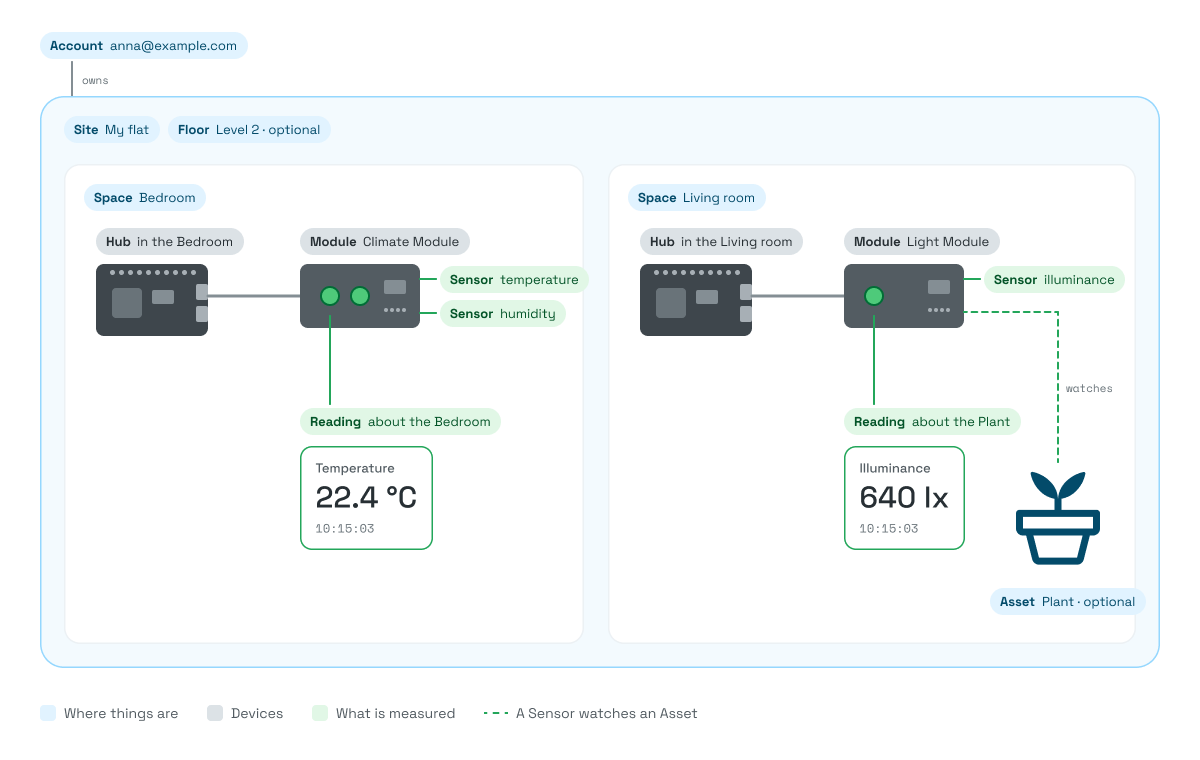
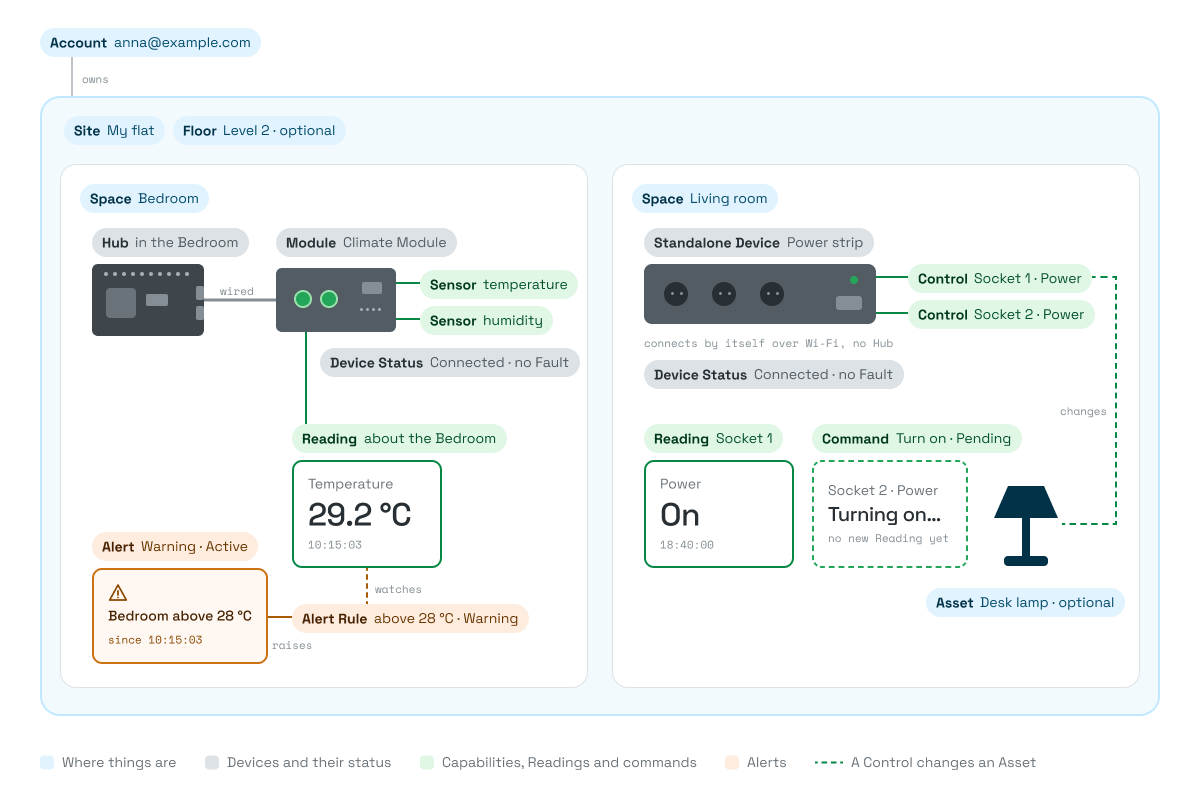
DeviceFaultStatus componenet update

diff --git a/kit/packages/ui/src/components/status/DeviceFaultStatus/DeviceFaultStatus.module.css b/kit/packages/ui/src/components/status/DeviceFaultStatus/DeviceFaultStatus.module.css
@@ -1,22 +1,49 @@
 @layer detriz {
-  /* Icon then message in one row. The icon stays beside the first line when the message wraps. */
+  /* A compact version of AlertBanner's critical level: a very light danger fill, a light danger
+     border, an icon tile and the message. It fills the width its parent gives it.
+     4px top, bottom and left, 8px right; the padding subtracts the border, so the size matches
+     Figma (inside stroke). The icon stays beside the first line when the message wraps. */
   .root {
-    display: inline-flex;
+    display: flex;
     align-items: flex-start;
-    gap: var(--shk-space-1);
-    padding: var(--shk-space-0);
-    color: var(--shk-status-danger-fg);
+    gap: var(--shk-space-2);
+    box-sizing: border-box;
+    inline-size: 100%;
+    padding: calc(var(--shk-space-1) - var(--shk-border-width-thin))
+      calc(var(--shk-space-2) - var(--shk-border-width-thin))
+      calc(var(--shk-space-1) - var(--shk-border-width-thin))
+      calc(var(--shk-space-1) - var(--shk-border-width-thin));
+    border: var(--shk-border-width-thin) solid
+      var(--shk-status-danger-border-subtle);
+    border-radius: var(--shk-radius-8);
+    background: var(--shk-status-danger-bg-subtle);
+    color: var(--shk-color-text-primary);
+  }
+
+  /* The icon tile: like AlertBanner's, but 20px with a 16px icon. White icon on the solid danger colour. */
+  .icon {
+    display: inline-flex;
+    flex-shrink: 0;
+    align-items: center;
+    justify-content: center;
+    inline-size: var(--shk-size-5);
+    block-size: var(--shk-size-5);
+    border-radius: var(--shk-radius-4);
+    background: var(--shk-status-danger-solid);
+    color: var(--shk-color-text-inverse);
   }
 
   /* Figma's 12px / regular / 18px text is the caption text style.
      The message wraps instead of truncating: a cut-off Fault message could hide what is wrong. */
   .label {
+    flex: 1;
     min-inline-size: 0;
     font-family: var(--shk-typography-caption-font-family);
     font-size: var(--shk-typography-caption-font-size);
     font-weight: var(--shk-typography-caption-font-weight);
     line-height: var(--shk-typography-caption-line-height);
     letter-spacing: var(--shk-typography-caption-letter-spacing);
+    overflow-wrap: break-word;
   }
 
   /* On the page for screen readers only, never seen. */

diff --git a/kit/packages/ui/src/components/readings/DeviceCard/DeviceCard.tsx b/kit/packages/ui/src/components/readings/DeviceCard/DeviceCard.tsx
@@ -14,6 +14,17 @@ export function DeviceCard({
   connectionStatus,
   faults = [],
 }: DeviceCardProps) {
+  // A Fault about a Sensor on this card goes inside that Sensor's card. The rest (no Metric,
+  // or a Metric the card doesn't show) are about the whole Device and go above the Sensors.
+  const shownMetrics = new Set(sensors.map((sensor) => sensor.metric));
+  const deviceFaults = faults.filter(
+    (fault) => !fault.metric || !shownMetrics.has(fault.metric),
+  );
+  const faultCodesFor = (metric: string) =>
+    faults
+      .filter((fault) => fault.metric === metric)
+      .map((fault) => fault.faultCode);
+
   return (
     // Card draws the surface and the header strip (name + Connection Status) and names the group.
     <Card
@@ -22,8 +33,8 @@ export function DeviceCard({
     >
       {/* A container, so the Sensors can switch to a row when the body is wide enough. */}
       <div className={styles.content}>
-        {/* One DeviceFaultStatus per Fault. Each Fault Code appears once, so it works as the key. */}
-        {faults.map((fault) => (
+        {/* One DeviceFaultStatus per Device-wide Fault. Each Fault Code appears once, so it works as the key. */}
+        {deviceFaults.map((fault) => (
           <DeviceFaultStatus key={fault.faultCode} {...fault} />
         ))}
         {/* role="list": Safari stops treating a list as a list once its bullets are removed. */}
@@ -41,6 +52,7 @@ export function DeviceCard({
                     {...sensor}
                     isDisconnected={connectionStatus === "disconnected"}
                     size="md"
+                    faults={faultCodesFor(sensor.metric)}
                   />
                 ) : (
                   <SensorReading
@@ -50,6 +62,7 @@ export function DeviceCard({
                     fractionDigits={sensor.fractionDigits}
                     isDisconnected={connectionStatus === "disconnected"}
                     size="md"
+                    faults={faultCodesFor(sensor.metric)}
                   />
                 )}
               </li>

diff --git a/kit/packages/ui/src/components/readings/DeviceCard/DeviceCard.stories.tsx b/kit/packages/ui/src/components/readings/DeviceCard/DeviceCard.stories.tsx
@@ -80,7 +80,8 @@ export const Disconnected: Story = {
   args: { connectionStatus: "disconnected" },
 };
 
-// A Fault sits on top of any state: the value still shows.
+// A Fault sits on top of any state: the value still shows. A Fault about a Sensor on the card
+// shows inside that Sensor's card, with the short message.
 export const Fault: Story = {
   args: {
     name: "Air Quality Module",
@@ -89,7 +90,21 @@ export const Fault: Story = {
   },
 };
 
-// A Module can report several Faults at once: one DeviceFaultStatus per Fault.
+// A Fault about one of two Sensors: only that Sensor's card shows it. Both cards keep the same height.
+export const FaultOnOneSensor: Story = {
+  args: {
+    faults: [{ faultCode: "sensor_failure", metric: "humidity" }],
+  },
+};
+
+// A Fault with no Metric is about the whole Device: it shows above the Sensors, full width.
+export const DeviceFault: Story = {
+  args: {
+    faults: [{ faultCode: "calibration_required" }],
+  },
+};
+
+// A Module can report several Faults at once: one DeviceFaultStatus per Fault, each in its Sensor's card.
 export const SeveralFaults: Story = {
   args: {
     name: "Air Quality Module",

diff --git a/kit/packages/ui/src/components/status/DeviceFaultStatus/DeviceFaultStatus.tsx b/kit/packages/ui/src/components/status/DeviceFaultStatus/DeviceFaultStatus.tsx
@@ -5,7 +5,7 @@ import { METRIC_NAMES } from "../../../utils/metricNames";
 import styles from "./DeviceFaultStatus.module.css";
 import type { DeviceFaultStatusProps } from "./DeviceFaultStatus.types";
 
-/** Shows a Device's Fault: a danger icon and a short message. Takes props only, never fetches data. */
+/** Shows a Device's Fault: a danger icon tile and a short message, full width. Takes props only, never fetches data. */
 export function DeviceFaultStatus({
   faultCode,
   metric,
@@ -17,7 +17,9 @@ export function DeviceFaultStatus({
   return (
     <span role="status" data-fault-code={faultCode} className={styles.root}>
       {/* The icon is decorative: the message next to it says the same thing. */}
-      <Icon name={READING_STATUS_ICONS.fault} size="xs" />
+      <span className={styles.icon}>
+        <Icon name={READING_STATUS_ICONS.fault} size="xs" />
+      </span>
       {/* When there is a spoken name, screen readers skip the message and read that instead ("carbon dioxide sensor failure"). */}
       <span
         aria-hidden={names?.spokenName ? "true" : undefined}

diff --git a/kit/packages/ui/src/components/readings/SensorReading/SensorReading.tsx b/kit/packages/ui/src/components/readings/SensorReading/SensorReading.tsx
@@ -1,5 +1,6 @@
 import { useId } from "react";
 import { SensorLabel } from "../../context/SensorLabel";
+import { DeviceFaultStatus } from "../../status/DeviceFaultStatus";
 import { ReadingValue } from "../ReadingValue";
 import { UnitLabel } from "../UnitLabel";
 import styles from "./SensorReading.module.css";
@@ -13,6 +14,7 @@ export function SensorReading({
   isDisconnected = false,
   fractionDigits = 1,
   size = "lg",
+  faults = [],
 }: SensorReadingProps) {
   const labelId = useId();
   // Same rule as ReadingValue: no number is shown while loading or Disconnected.
@@ -44,6 +46,14 @@ export function SensorReading({
           <UnitLabel unit={unit} size={size} />
         </span>
       </span>
+      {/* The Faults about this Sensor, under its value. No Metric: the label above already names it. */}
+      {faults.length > 0 && (
+        <span className={styles.faults}>
+          {faults.map((faultCode) => (
+            <DeviceFaultStatus key={faultCode} faultCode={faultCode} />
+          ))}
+        </span>
+      )}
     </div>
   );
 }

diff --git a/kit/packages/ui/src/components/readings/SensorState/SensorState.tsx b/kit/packages/ui/src/components/readings/SensorState/SensorState.tsx
@@ -1,6 +1,7 @@
 import { useId } from "react";
 import { AssetLabel } from "../../context/AssetLabel";
 import { SensorLabel } from "../../context/SensorLabel";
+import { DeviceFaultStatus } from "../../status/DeviceFaultStatus";
 import { StateValue } from "../StateValue";
 import styles from "./SensorState.module.css";
 import type { SensorStateProps } from "./SensorState.types";
@@ -11,6 +12,7 @@ export function SensorState({
   isDisconnected = false,
   alertLevel,
   size = "lg",
+  faults = [],
   ...reading
 }: SensorStateProps) {
   const labelId = useId();
@@ -38,6 +40,14 @@ export function SensorState({
           size={size}
         />
       </span>
+      {/* The Faults about this Sensor, under its State. No Metric: the label above already names it. */}
+      {faults.length > 0 && (
+        <span className={styles.faults}>
+          {faults.map((faultCode) => (
+            <DeviceFaultStatus key={faultCode} faultCode={faultCode} />
+          ))}
+        </span>
+      )}
     </div>
   );
 }

diff --git a/kit/packages/ui/src/components/readings/SensorState/SensorState.types.ts b/kit/packages/ui/src/components/readings/SensorState/SensorState.types.ts
@@ -1,6 +1,7 @@
 import type { AssetType } from "../../../types/assetType";
 import type { AlertLevel } from "../../../types/alert";
 import type { StateValueReading } from "../StateValue";
+import type { FaultCode } from "../../status/DeviceFaultStatus";
 
 /** How big the State is drawn. The same two sizes as SensorReading. */
 export type SensorStateSize = "lg" | "md";
@@ -23,4 +24,6 @@ export type SensorStateProps = StateValueReading & {
   alertLevel?: AlertLevel;
   /** How big the State is drawn. Defaults to `lg`. */
   size?: SensorStateSize;
+  /** The Fault Codes of the Device's Faults about this Sensor. Each shows under the State, with the short message ("Sensor failure"), because the card already names the Sensor. Leave it out when there are none. */
+  faults?: FaultCode[];
 };

diff --git a/kit/packages/ui/src/components/readings/SensorReading/SensorReading.types.ts b/kit/packages/ui/src/components/readings/SensorReading/SensorReading.types.ts
@@ -1,4 +1,5 @@
 import type { MeasuredMetric } from "../../../types/metric";
+import type { FaultCode } from "../../status/DeviceFaultStatus";
 import type { UnitLabelUnit } from "../UnitLabel";
 
 /** How big the value and the Unit are drawn. Passed to ReadingValue and UnitLabel. Only the two card sizes. */
@@ -17,4 +18,6 @@ export interface SensorReadingProps {
   fractionDigits?: number;
   /** How big the value and the Unit are drawn. Defaults to `lg`. */
   size?: SensorReadingSize;
+  /** The Fault Codes of the Device's Faults about this Sensor. Each shows under the value, with the short message ("Sensor failure"), because the card already names the Sensor. Leave it out when there are none. */
+  faults?: FaultCode[];
 }

diff --git a/kit/packages/ui/src/components/readings/DeviceCard/DeviceCard.types.ts b/kit/packages/ui/src/components/readings/DeviceCard/DeviceCard.types.ts
@@ -39,6 +39,6 @@ export interface DeviceCardProps {
   controls?: ReactNode;
   /** The Device's current Connection Status. */
   connectionStatus: ConnectionStatus;
-  /** The Device's current Faults, one per Fault Code. A Device can report several at once. Leave it out, or pass an empty list, when there are none. */
+  /** The Device's current Faults, one per Fault Code. A Device can report several at once. A Fault with the `metric` of a Sensor on the card shows inside that Sensor's card; the others show above the Sensors. Leave it out, or pass an empty list, when there are none. */
   faults?: DeviceFaultStatusProps[];
 }

diff --git a/kit/packages/ui/src/components/status/DeviceFaultStatus/DeviceFaultStatus.types.ts b/kit/packages/ui/src/components/status/DeviceFaultStatus/DeviceFaultStatus.types.ts
@@ -6,6 +6,6 @@ export type FaultCode = "sensor_failure" | "calibration_required";
 export interface DeviceFaultStatusProps {
   /** The Fault Code of the Device's current Fault. Decides the message. */
   faultCode: FaultCode;
-  /** The Metric of the affected Sensor, when the Fault is about one Sensor. Adds it to the message. */
+  /** The Metric of the affected Sensor, when the Fault is about one Sensor. Adds it to the message. Leave it out inside that Sensor's own card (SensorReading, SensorState), where its name is already shown. */
   metric?: Metric;
 }

diff --git a/kit/packages/ui/src/components/readings/SensorReading/SensorReading.stories.tsx b/kit/packages/ui/src/components/readings/SensorReading/SensorReading.stories.tsx
@@ -64,6 +64,16 @@ export const SizeMd: Story = {
   args: { size: "md" },
 };
 
+// A Fault about this Sensor: the short message under the value. The value still shows.
+export const Fault: Story = {
+  args: { size: "md", faults: ["sensor_failure"] },
+};
+
+// Both Fault Codes at once, one under the other.
+export const SeveralFaults: Story = {
+  args: { size: "md", faults: ["sensor_failure", "calibration_required"] },
+};
+
 // More example values from the spec.
 export const Humidity: Story = {
   args: {

diff --git a/kit/packages/ui/src/components/readings/DeviceCard/DeviceCard.module.css b/kit/packages/ui/src/components/readings/DeviceCard/DeviceCard.module.css
@@ -30,8 +30,11 @@
     margin-block-start: calc(var(--shk-space-4) - var(--shk-space-3));
   }
 
-  /* All Sensors in a row get the same width, and they can shrink to the width of the column. */
+  /* All Sensors in a row get the same width, and they can shrink to the width of the column.
+     grid makes the Sensor's card fill the item, so cards in a row stay the same height when
+     one of them shows a Fault. */
   .sensor {
+    display: grid;
     flex: 1 1 0;
     min-inline-size: 0;
   }
